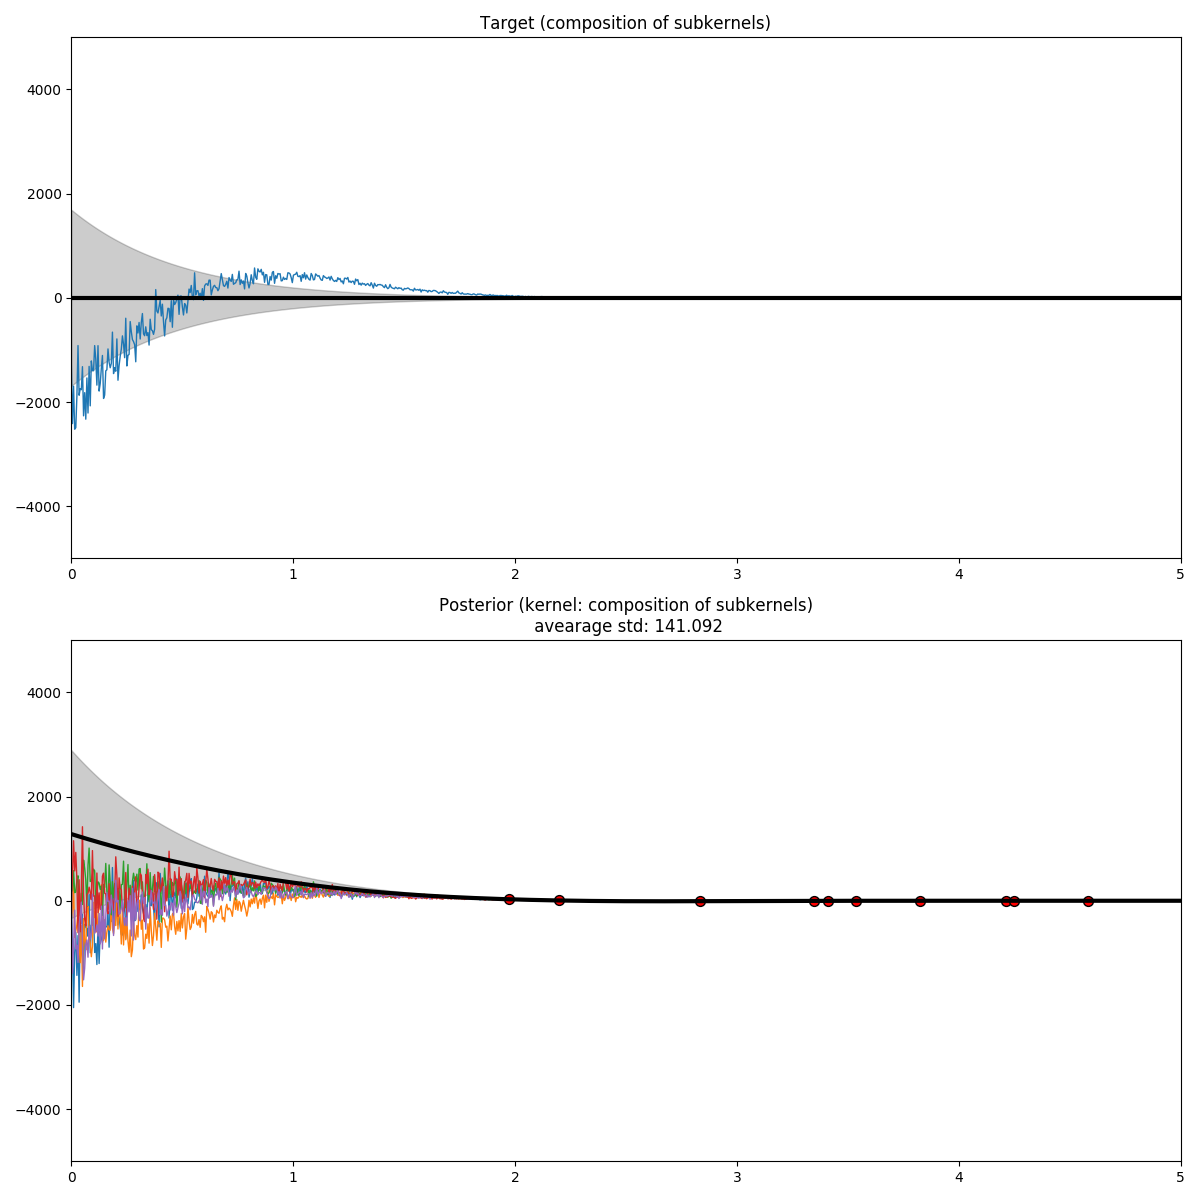
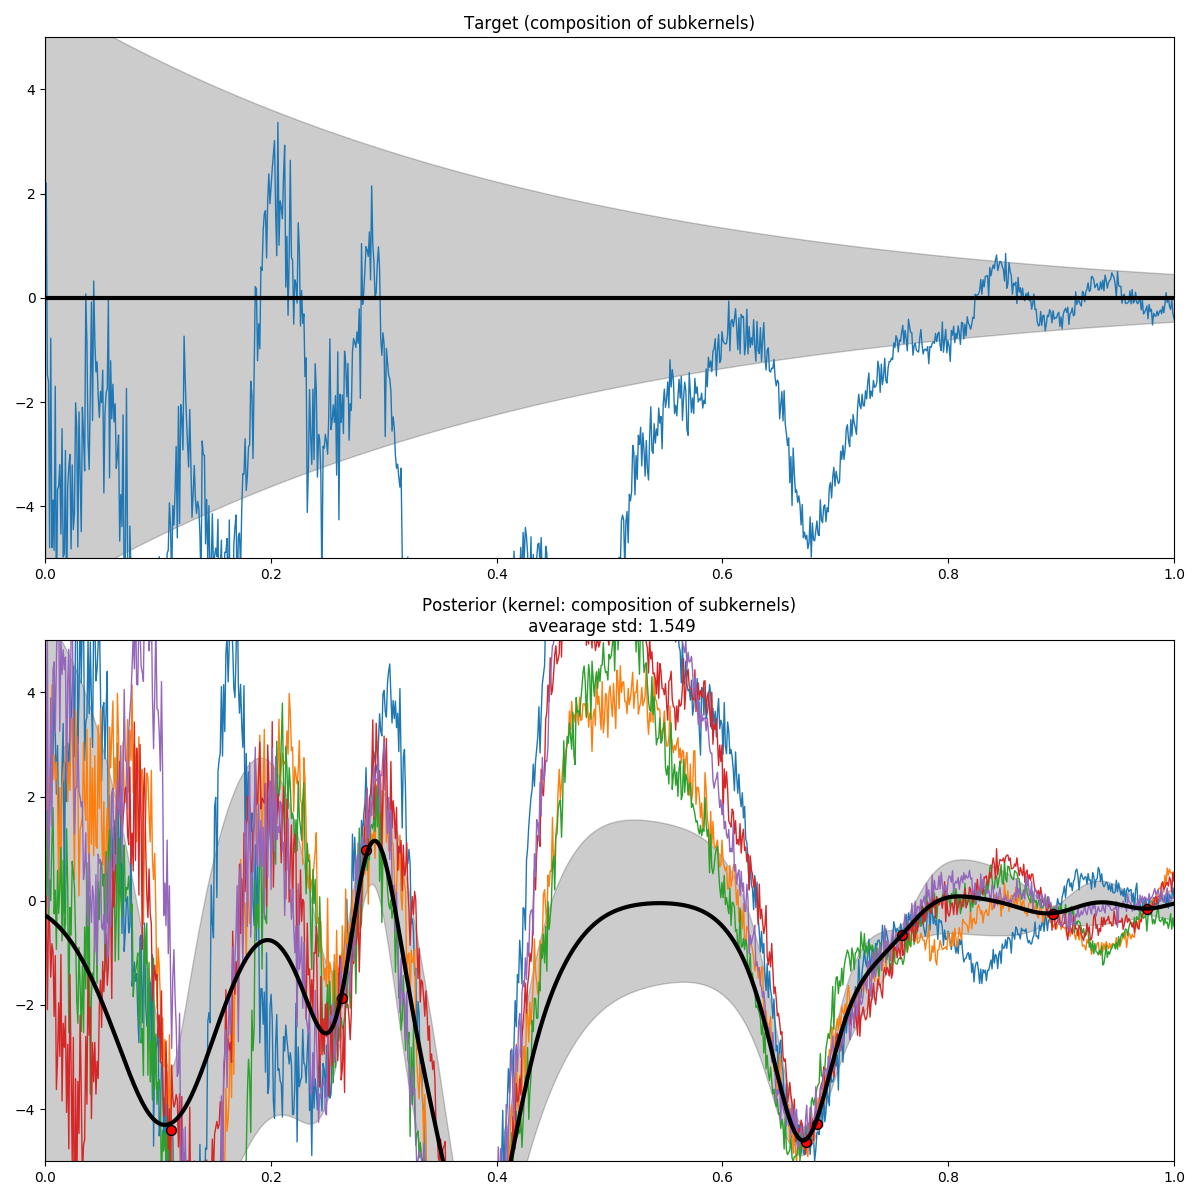
0509

diff --git a/src/small/gpucb_test.py b/src/small/gpucb_test.py
@@ -73,7 +73,9 @@ def decomposed_gpucb(coefficients, subkernels, target_function_list, X_, sample_
 
         y_std = np.sqrt(y_variance)
 
-        b_iteration = 2 * np.log(2 * iteration**2 * np.pi**2 * time_horizon / (3 * delta) + 2 * dimension * np.log(iteration**2 * dimension * b * upper_bound * np.sqrt(np.log(4 * dimension * a / delta)) ))
+        b_iteration = 2 * np.log(2 * iteration**2 * np.pi**2 * time_horizon / (3 * delta)) + 2 * dimension * np.log(iteration**2 * dimension * b * upper_bound * np.sqrt(np.log(4 * dimension * a / delta)))
+        #b_iteration = 2 * np.log(2 * iteration**2 * np.pi**2 / (3 * delta)) + 2 * dimension * np.log(iteration**2 * dimension * b * upper_bound * np.sqrt(np.log(4 * dimension * a / delta)))
+
         ucb_y = y_mean + np.sqrt(b_iteration) * y_std
         argmax_x = np.argmax(ucb_y)
 
@@ -82,7 +84,7 @@ def decomposed_gpucb(coefficients, subkernels, target_function_list, X_, sample_
         average_regret = np.mean(maximum_value - target_function[sample_X_indices])
         average_regret_list.append(average_regret)
         current_maximum = np.max(target_function[sample_X_indices])
-        print("Decomposed GP, iteration: {0}, average regret: {1}, current maximum: {2}".format(iteration, average_regret, current_maximum))
+        print("Decomposed GP, iteration: {0}, average regret: {1}, current maximum: {2}, b_t: {3}".format(iteration, average_regret, current_maximum, b_iteration))
 
     if f_output:
         f_output.write(", ".join([str(x) for x in average_regret_list]) + "\n")
@@ -93,8 +95,8 @@ def entire_gpucb(coefficients, subkernels, target_function_list, X_, sample_X_in
     assert(len(coefficients) == len(subkernels))
     dimension = X_.shape[1]
     time_horizon = len(coefficients)
-    a = 1.0
-    b = 1.0 #* time_horizon
+    a = 1.0 
+    b = 1.0 * time_horizon
     delta = 0.01
     sample_size, feature_size = X_.shape
     current_sample_size = len(sample_X_indices)
@@ -133,7 +135,7 @@ def entire_gpucb(coefficients, subkernels, target_function_list, X_, sample_X_in
         y_mean, y_std = gp.predict(X_, return_std=True)
 
         # ---------------------- arg-maximization ---------------------
-        b_iteration = 2 * np.log(2 * iteration**2 * np.pi**2 / (3 * delta) + 2 * dimension * np.log(iteration**2 * dimension * b * upper_bound * np.sqrt(np.log(4 * dimension * a / delta)) ))
+        b_iteration = 2 * np.log(2 * iteration**2 * np.pi**2 / (3 * delta)) + 2 * dimension * np.log(iteration**2 * dimension * b * upper_bound * np.sqrt(np.log(4 * dimension * a / delta)) )
         ucb_y = y_mean + np.sqrt(b_iteration) * y_std
         argmax_x = np.argmax(ucb_y)
 
@@ -142,7 +144,7 @@ def entire_gpucb(coefficients, subkernels, target_function_list, X_, sample_X_in
         average_regret = np.mean(maximum_value - target_function[sample_X_indices])        
         average_regret_list.append(average_regret)
         current_maximum = np.max(target_function[sample_X_indices])
-        print("Entire GP, iteration: {0}, average regret: {1}, current maximum: {2}".format(iteration, average_regret, current_maximum))
+        print("Entire GP, iteration: {0}, average regret: {1}, current maximum: {2}, b_t: {3}".format(iteration, average_regret, current_maximum, b_iteration))
 
     if f_output:
         f_output.write(", ".join([str(x) for x in average_regret_list]) + "\n")
@@ -183,12 +185,12 @@ if __name__ == "__main__":
     fig_index = 0
     grid_size = 1000
     bias_sample_size = 1
-    upper_bound = 20
+    upper_bound = 1
     posterior_sample_size = 30
-    visible_region = 200
+    visible_region = 5
     plot_detail = False
-    individual_alpha = 0.03
-    gp_alpha = 1e-7
+    individual_alpha = 0.01
+    gp_alpha = 1e-10
     iterations = 100
     output_filename = "result/result_0508.csv"
 
@@ -198,9 +200,10 @@ if __name__ == "__main__":
     np.random.seed()
 
     # ======================== coefficients and sub-kernels ===========================
-    #coefficients = [lambda X: np.array([((1 - float(X[i])/(5*upper_bound))*1.2)**t for i in range(len(X))]) for t in range(time_horizon) ]
-    coefficients = [f1] * time_horizon
-    subkernels = [RBF(length_scale=(i+10)*0.2,) + WhiteKernel(noise_level=individual_alpha) for i in range(time_horizon)]
+    coefficients = [lambda X: np.array([((1 - float(X[i])/(5.0 * upper_bound)))**(t/3.0 + 1) for i in range(len(X))]) for t in range(time_horizon) ]
+    #coefficients = [f1] * time_horizon
+    subkernels = [RBF(length_scale=(np.random.randint(20,50))*0.001,) + WhiteKernel(noise_level=individual_alpha) for i in range(time_horizon)]
+    #subkernels = [RBF(length_scale=(5)*0.005,) + WhiteKernel(noise_level=individual_alpha) for i in range(time_horizon)]
     #subkernels = [Matern(length_scale=(i+10)*0.05, nu=1.5) + WhiteKernel(noise_level=individual_alpha) for i in range(time_horizon)]
     
     ck = composedKernel(coefficients, subkernels)

diff --git a/src/small/plot_gpr_prior_posterior.py b/src/small/plot_gpr_prior_posterior.py
@@ -59,11 +59,11 @@ if __name__ == "__main__":
     fig_index = 0
     grid_size = 1000
     bias_sample_size = 10
-    upper_bound = 5
+    upper_bound = 1
     posterior_sample_size = 5
-    visible_region = 5000
+    visible_region = 5
     plot_detail = False
-    individual_alpha = 0.1
+    individual_alpha = 0.01
     random_seed = np.random.randint(0,10000)
     gp_alpha = 0
 
@@ -72,8 +72,8 @@ if __name__ == "__main__":
     # ============================== composed kernels ===================================
 
     #coefficients = [f1] * time_horizon
-    coefficients = [lambda X: np.array([((1 - float(X[i])/(3*upper_bound))*1.2)**t for i in range(len(X))]) for t in range(time_horizon) ]
-    subkernels = [RBF(length_scale=(5+t)*0.05) + WhiteKernel(noise_level=individual_alpha) for t in range(time_horizon)]
+    coefficients = [lambda X: np.array([((1.0 - float(X[i])/(5.0 * upper_bound)))**(t/3.0 + 1) for i in range(len(X))]) for t in range(time_horizon) ]
+    subkernels = [RBF(length_scale=(np.random.randint(20,50))*0.001) + WhiteKernel(noise_level=individual_alpha) for t in range(time_horizon)]
     
     ck = composedKernel(coefficients, subkernels)
 
